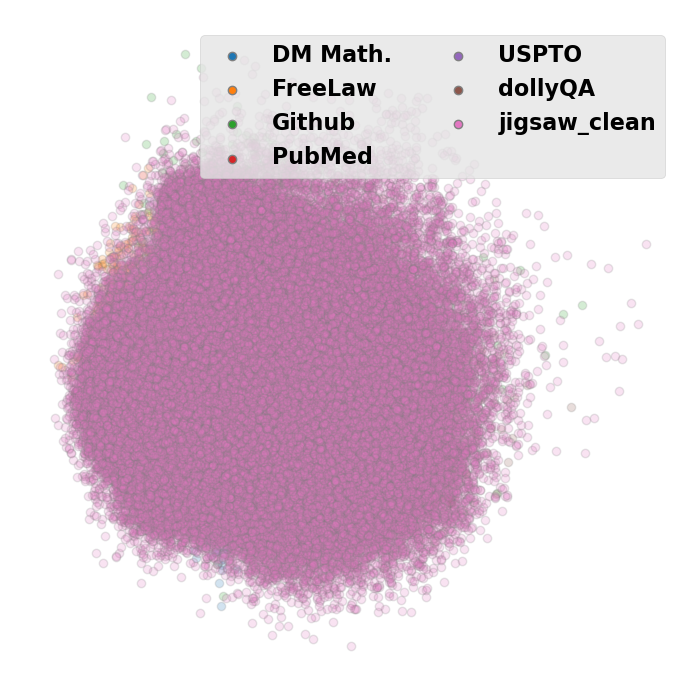
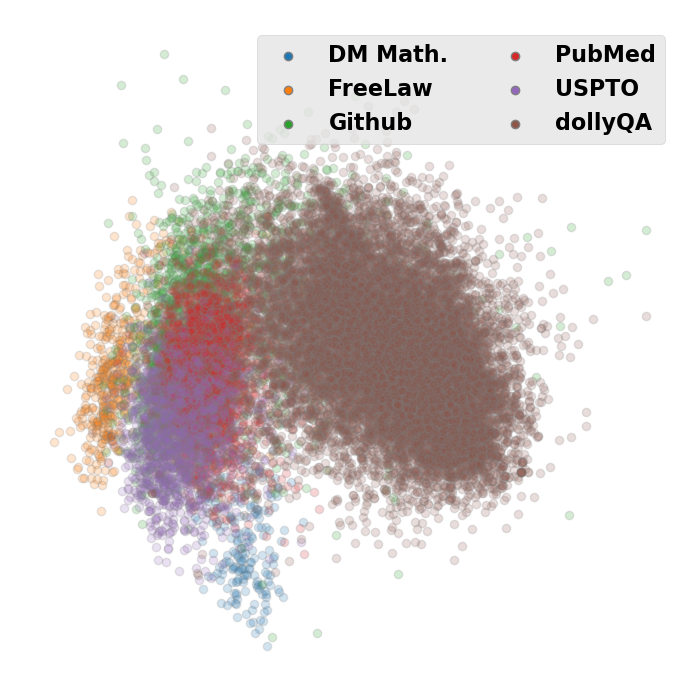
cleaned up folder for toxicity ID

diff --git a/statistic_analysis.py b/statistic_analysis.py
@@ -428,7 +428,7 @@ if __name__ == "__main__":
             "USPTO": f"../Downloads/polytope_{backbone}/USPTO Backgrounds/statistics.csv",
             "Github": f"../Downloads/polytope_{backbone}/Github/statistics.csv",
             "dollyQA": f"../Downloads/polytope_{backbone}/dollyQA/statistics.csv",
-            "jigsaw_clean": f"../Downloads/polytope_{backbone}/full_jigsaw/statistics.csv",
+            # "jigsaw_clean": f"../Downloads/polytope_{backbone}/full_jigsaw/statistics.csv",
         }
         X = []
         y = []
@@ -443,13 +443,13 @@ if __name__ == "__main__":
         X = np.concatenate(X)
         y = np.concatenate(y)
 
-        run_sup_semisup_experiments(
-            X,
-            y,
-            exp_name=f"nontoxicdatasets_{backbone}",
-            n_folds=n_folds,
-            pcts=[0.5, 0.6, 0.7, 0.8, 0.9, 0.95, 0.99],
-        )
+        # run_sup_semisup_experiments(
+        #     X,
+        #     y,
+        #     exp_name=f"nontoxicdatasets_{backbone}",
+        #     n_folds=n_folds,
+        #     pcts=[0.5, 0.6, 0.7, 0.8, 0.9, 0.95, 0.99],
+        # )
         unsupervised_embedding(
             np.reshape(X, (len(X), -1)), y, exp_name=f"nontoxicdatasets_{backbone}"
         )
